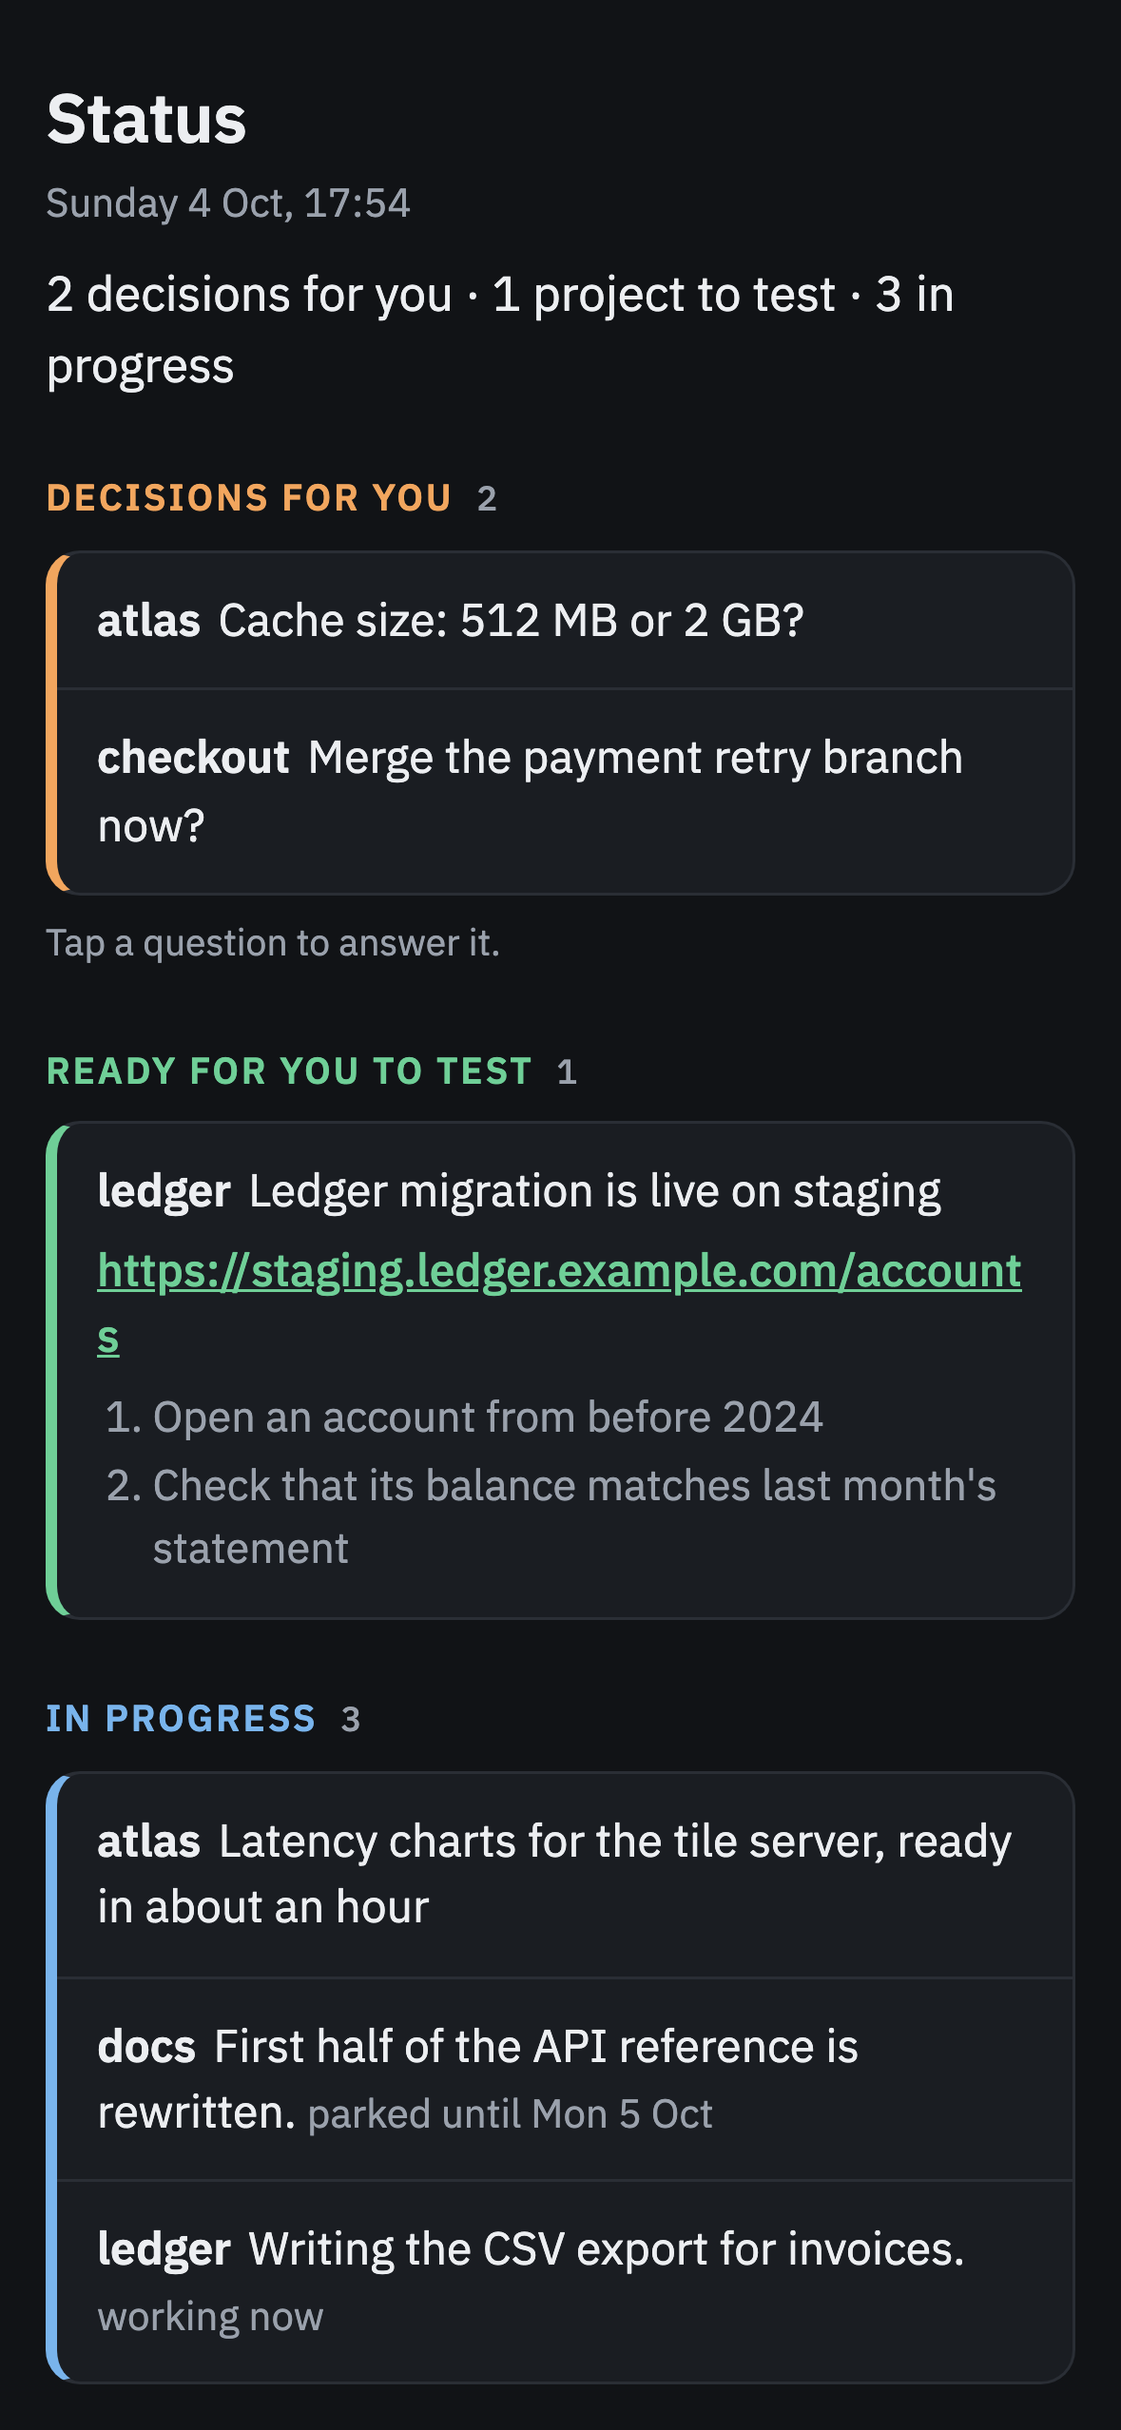
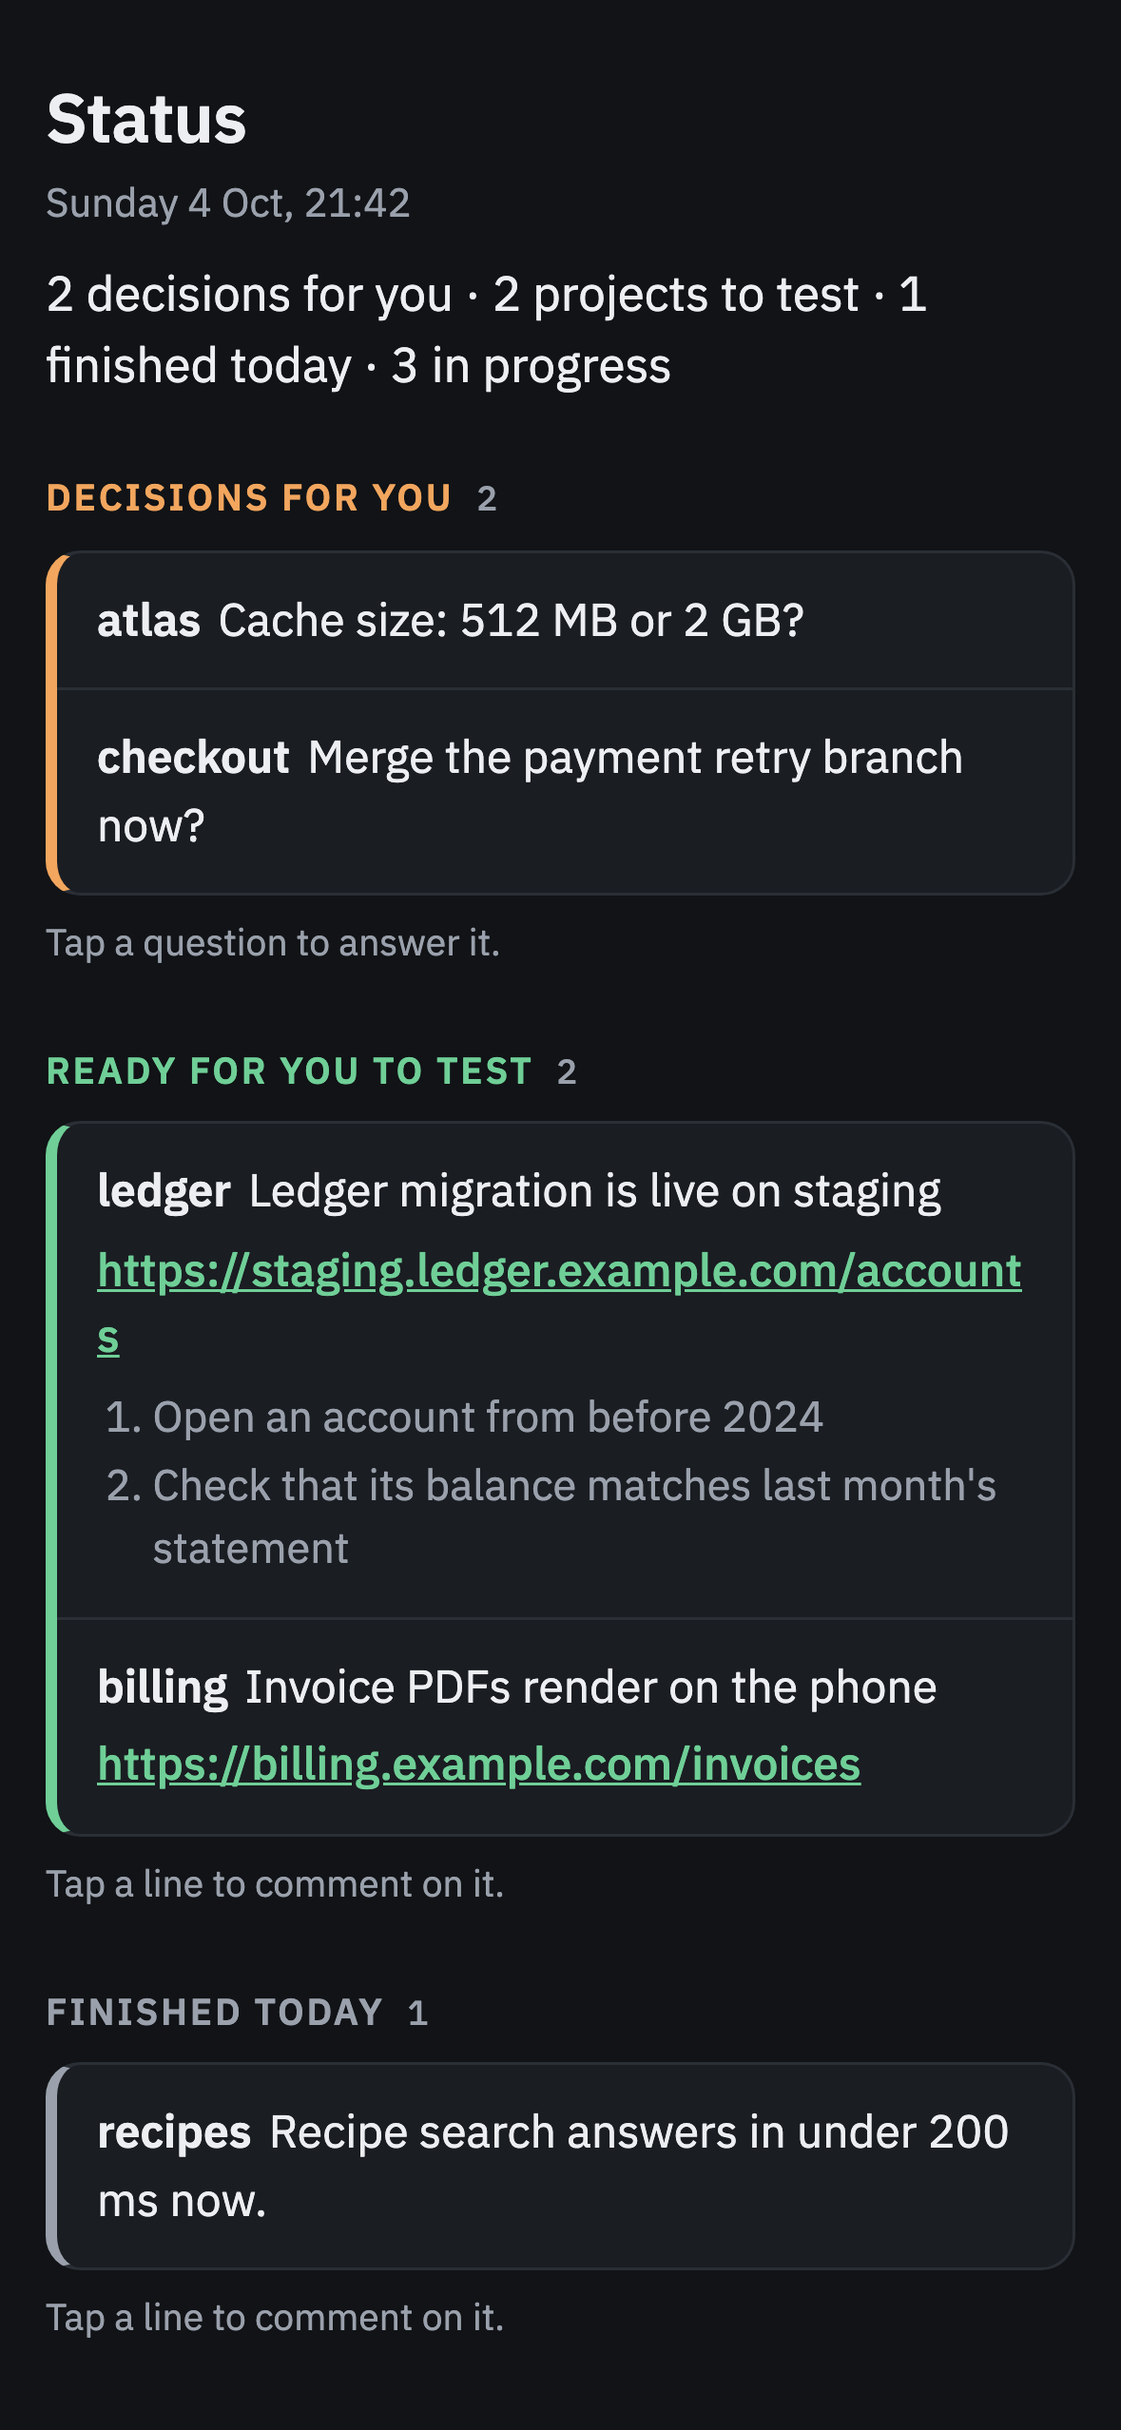
Board: every line opens the composer, addressed and quoted
A line to test, a finished line and a progress line now open the one-line
composer like the decisions and the machine room rows. The comment says
which session and quotes the line: `#6 sora, on "<line>": <text>`. A
shipped line whose session has ended is addressed `sora (session ended)`,
and the skill tells Head Jeeves to open a new session with that context.
make board-check taps every line on a phone layout and checks the message.

Claude-Session: https://claude.ai/code/session_018NCtbTAkNUxZmXtTfCcWmy

diff --git a/podbay/board.py b/podbay/board.py
@@ -6,8 +6,7 @@ It reads like a status page for the person who owns the work, grouped by
 project, never by session, and every line stands alone: no line refers to
 an earlier message, and a link is the full URL.
 
-- Decisions for you: only the real questions a session asks. Tapping one
-  opens the composer to answer it.
+- Decisions for you: only the real questions a session asks.
 - Ready for you to test: one line per project that shipped today, its full
   URL, and the steps to check it.
 - In progress: one line per project, with roughly when.
@@ -21,9 +20,12 @@ HEADLINES_PATH and the head-jeeves skill for the format). A session with no
 headline falls back to the first sentence of its recap, cleaned of
 markdown and never cut mid-word.
 
-Sending from the composer posts a comment on the artifact addressed
-`#6 sora: <text>` (the session name stands in when the terminal number is
-unknown) and sends it to the Claude session that published the page, Head
+Every line opens the composer when tapped: a decision, a line to test, a
+finished line, a progress line and a machine room row. Sending posts a
+comment on the artifact addressed to that line's session and quoting the
+line, `#6 sora, on "<line>": <text>` (the session name stands in when the
+terminal number is unknown; a shipped line whose session has ended says
+`sora (session ended)`), and sends it to the Claude session that published the page, Head
 Jeeves, who passes it on with `podbay send`. That path is the artifact
 `comments` capability (sendToClaude), so the page must be published with
 `capabilities: {comments: {}}`; without it the composer says so instead of
@@ -104,6 +106,8 @@ h2 .n { font: 500 12px var(--mono); color: var(--muted); letter-spacing: 0; }
 .prog { --c: var(--prog); }
 .done { --c: var(--muted); }
 ul.lines > li > div + div { margin-top: 8px; }
+ul.lines > li > div.tap { margin: -4px -6px; padding: 4px 6px; border-radius: 8px; }
+ul.lines > li > div.tap + div.tap { margin-top: 4px; }
 ul.lines { list-style: none; margin: 0; padding: 0; background: var(--card); border: 1px solid var(--line); border-left: 4px solid var(--c, var(--line)); border-radius: 12px; overflow: hidden; }
 ul.lines > li { padding: 12px 14px; border-top: 1px solid var(--line); }
 ul.lines > li:first-child { border-top: 0; }
@@ -158,6 +162,8 @@ _JS = """
     const input = form.querySelector("input");
     const status = item.querySelector(".status");
     const target = item.dataset.target;
+    const quote = item.dataset.quote;
+    const message = (text) => quote ? `${target}, on "${quote}": ${text}` : `${target}: ${text}`;
     const toggle = () => {
       const open = item.classList.toggle("open");
       if (open) {
@@ -175,7 +181,7 @@ _JS = """
       status.className = "status"; status.textContent = "Sending…";
       try {
         const anchor = await comments.anchorFor(item);
-        await comments.sendToClaude({ anchor, text: target + ": " + text });
+        await comments.sendToClaude({ anchor, text: message(text) });
         status.className = "status ok"; status.textContent = "Sent to Head Jeeves.";
         input.value = "";
       } catch (err) {
@@ -348,9 +354,24 @@ def _steps(steps: object) -> str:
     return f'<ol class="steps">{items}</ol>' if items else ""
 
 
+def _ended_target(repo: str) -> str:
+    """How the composer addresses a shipped line whose session has ended:
+    the repo, and that the session is gone, so Head Jeeves opens a new one."""
+    return f"{repo} (session ended)"
+
+
+def _tap(target: str, quote: str | None) -> str:
+    """The attributes that make an element open the composer: who the
+    message is for, and the line it quotes so Head Jeeves knows what it is
+    about."""
+    line = clean_line(quote, LINE_CHARS) if quote else ""
+    quoted = f' data-quote="{_esc(line)}"' if line else ""
+    return f'class="tap" data-target="{_esc(target)}"{quoted} tabindex="0"'
+
+
 def _decision_item(item: dict) -> str:
     return (
-        f'<li class="tap" data-target="{_esc(_target(item["session"]))}" tabindex="0">'
+        f'<li {_tap(item["target"], item["text"])}>'
         f'<span class="proj">{_esc(item["project"])}</span><span class="text">{_esc(item["text"])}</span>'
         f'{_link(item.get("link"))}{_composer()}</li>'
     )
@@ -361,8 +382,13 @@ def _project_item(project: str, items: list[dict]) -> str:
     for item in items:
         tag = f' <span class="when-tag">{_esc(item["when"])}</span>' if item.get("when") else ""
         line = f'<span class="text">{_esc(item["text"])}</span>{tag}{_link(item.get("link"))}{_steps(item.get("steps"))}'
-        parts.append(line if len(items) == 1 else f"<div>{line}</div>")
-    return f'<li><span class="proj">{_esc(project)}</span>{"".join(parts)}</li>'
+        parts.append(line + _composer("Comment on this line…"))
+    proj = f'<span class="proj">{_esc(project)}</span>'
+    if len(items) == 1:
+        # One line: the whole row is the tap target, the project inline.
+        return f'<li {_tap(items[0]["target"], items[0]["text"])}>{proj}{parts[0]}</li>'
+    divs = "".join(f'<div {_tap(item["target"], item["text"])}>{part}</div>' for item, part in zip(items, parts))
+    return f"<li>{proj}{divs}</li>"
 
 
 def _section(css: str, heading: str, body: str, count: int) -> str:
@@ -426,7 +452,7 @@ def _room_row(session: dict, now: datetime) -> str:
         pill = "never used"
     meta = " · ".join(x for x in (repo, pill, _age(session, now)) if x)
     return (
-        f'<li class="tap" data-target="{_esc(_target(session))}" tabindex="0"><div class="row">'
+        f'<li {_tap(_target(session), session.get("title") or session.get("name"))}><div class="row">'
         f'<span class="tab">{_esc(tab)}</span><span class="title">{_esc(session.get("title") or session.get("name"))}</span>'
         f'{_ctx(session)}</div><div class="meta">{_esc(meta)}</div>{_composer("Message for this session…")}</li>'
     )
@@ -457,7 +483,7 @@ def render(
         kind = _classify(s, headline, now)
         if kind is None:
             continue
-        item = {"session": s, "project": _project(s, headline), "link": None, "steps": None, "when": ""}
+        item = {"session": s, "target": _target(s), "project": _project(s, headline), "link": None, "steps": None, "when": ""}
         if headline and headline.get("text"):
             item.update(text=clean_line(headline["text"], 2 * LINE_CHARS), link=headline.get("link"), steps=headline.get("steps"))
         else:
@@ -475,7 +501,8 @@ def render(
         if key in live or headline.get("kind") != "shipped" or not headline.get("repo"):
             continue
         if _same_day(headline.get("at"), now):
-            found["shipped"].append({"session": {}, "project": str(headline["repo"]), "when": "",
+            found["shipped"].append({"session": {}, "target": _ended_target(str(headline["repo"])),
+                                     "project": str(headline["repo"]), "when": "",
                                      "text": clean_line(headline["text"], 2 * LINE_CHARS),
                                      "link": headline.get("link"), "steps": headline.get("steps")})
 
@@ -494,6 +521,7 @@ def render(
         if not groups and not empty:
             continue
         body = (f'<ul class="lines">\n{chr(10).join(_project_item(p, i) for p, i in groups)}\n</ul>'
+                '\n<p class="hint">Tap a line to comment on it.</p>'
                 if groups else f'<p class="none">{empty}</p>')
         sections.append(_section(css, heading, body, len(groups)))
 

diff --git a/scripts/board_check.py b/scripts/board_check.py
@@ -1,0 +1,76 @@
+"""Taps every line of the board on a phone and checks what reaches Head
+Jeeves: each line opens its own composer, and a sent message is addressed
+to that line's session and quotes the line. The board is the one the site
+screenshot shows (scripts/shots.py), made-up sessions only. The comments
+capability is stubbed, so nothing is sent anywhere.
+
+    make board-check
+"""
+
+from __future__ import annotations
+
+import asyncio
+import sys
+import tempfile
+from pathlib import Path
+
+sys.path.insert(0, str(Path(__file__).resolve().parent))
+
+import shots  # noqa: E402  (sets the demo environment before podbay loads)
+from playwright.async_api import async_playwright  # noqa: E402
+
+STUB = """
+window.__sent = [];
+window.claude = { use: async () => ({
+  anchorFor: async () => ({}),
+  sendToClaude: async ({ text }) => { window.__sent.push(text); },
+}) };
+"""
+
+
+async def main() -> int:
+    failures = []
+    with tempfile.TemporaryDirectory() as d:
+        page_path = Path(d) / "board.html"
+        page_path.write_text(shots.board_html())
+        async with async_playwright() as p:
+            browser = await p.chromium.launch()
+            phone = await browser.new_page(
+                viewport={"width": 393, "height": 852}, device_scale_factor=3, is_mobile=True, has_touch=True
+            )
+            await phone.add_init_script(STUB)
+            await phone.goto(page_path.as_uri())
+            await phone.click("details.room > summary")
+            taps = phone.locator(".tap[data-target]")
+            count = await taps.count()
+            sends = 0
+            for i in range(count):
+                tap = taps.nth(i)
+                target = await tap.get_attribute("data-target")
+                quote = await tap.get_attribute("data-quote")
+                section = await tap.evaluate("el => el.closest('section, details').querySelector('h2, summary').textContent")
+                await tap.locator(".text, .title").first.tap()
+                form = tap.locator("form.say")
+                if not await form.is_visible():
+                    failures.append(f"{target}: no composer after a tap")
+                    continue
+                await form.locator("input").fill("does this work")
+                await form.locator("input").press("Enter")
+                sends += 1
+                await phone.wait_for_function("n => window.__sent.length === n", arg=sends)
+                sent = await phone.evaluate("window.__sent[window.__sent.length - 1]")
+                expected = f'{target}, on "{quote}": does this work' if quote else f"{target}: does this work"
+                status = await tap.locator(".status").text_content()
+                if sent != expected or status != "Sent to Head Jeeves.":
+                    failures.append(f"{target}: sent {sent!r}, status {status!r}")
+                print(f"{section.split('·')[0].rstrip('0123456789 ')[:24]:<24} {sent}")
+                await tap.locator(".text, .title").first.tap()  # close it again
+            await browser.close()
+    for f in failures:
+        print("FAIL", f, file=sys.stderr)
+    print(f"{count} lines tapped, {len(failures)} failed")
+    return 1 if failures or count == 0 else 0
+
+
+if __name__ == "__main__":
+    sys.exit(asyncio.run(main()))

diff --git a/tests/test_board.py b/tests/test_board.py
@@ -54,7 +54,7 @@ def test_board_leads_with_outcomes_grouped_by_project():
     assert "podbay-fix-close" in room and "<b>claude</b> 5H 36%  7D 17%" in room and "never used" in room
     assert '<span class="ctx hot">ctx 73%</span>' in room and "Head Jeeves <span class=\"ctx\">ctx 7%</span>" in room
     assert "head-jeeves</span>" not in html and "#?" not in html
-    assert "sendToClaude" in html and 'target + ": " + text' in html
+    assert "sendToClaude" in html and '${target}, on "${quote}": ${text}' in html
 
 
 def test_head_jeeves_headlines_win_and_stale_questions_drop():
@@ -156,3 +156,36 @@ def test_a_card_age_never_contradicts_its_state():
     assert board._age(_session(state="shell_pane", age_seconds=10), NOW) == ""
     for state in ("working", "watching", "stalled"):
         assert "idle" not in board._age(_session(state=state, age_seconds=7200), NOW)
+
+
+def test_every_line_opens_the_composer_addressed_and_quoted():
+    payload = {"sessions": [
+        _session(session_id="s-sora", state="needs_you", last_text="Everything is committed."),
+        _session(session_id="s-done", name="e", tab="11", work_repo="keitos", repo="keitos", state="needs_you",
+                 age_seconds=600, last_text="Recipe search is faster."),
+        _session(session_id="s-prog", name="f", tab="12", work_repo="atlas", repo="atlas", state="working",
+                 last_text="Building the tile cache."),
+        _session(session_id="s-a1", name="g", tab="13", work_repo="ledger", repo="ledger", state="working", last_text="Export first."),
+        _session(session_id="s-a2", name="ledger-two", tab="", work_repo="ledger", repo="ledger", state="working", last_text="Import second."),
+    ]}
+    headlines = {
+        "s-sora": {"kind": "shipped", "text": "Six improvements live", "link": "vesahyp.github.io/sora"},
+        "gone": {"kind": "shipped", "text": "Stats board live", "repo": "podbay", "at": "2026-10-03T12:00"},
+    }
+    html = board.render(payload, NOW, headlines=headlines)
+    ready = html[html.index("Ready for you to test"):html.index("Finished today")]
+    assert 'data-target="#6 sora" data-quote="Six improvements live"' in ready
+    assert 'data-target="podbay (session ended)" data-quote="Stats board live"' in ready
+    done = html[html.index("Finished today"):html.index("In progress")]
+    assert 'data-target="#11 keitos" data-quote="Recipe search is faster."' in done
+    progress = html[html.index("In progress"):html.index("Machine room")]
+    assert 'data-target="#12 atlas" data-quote="Building the tile cache."' in progress
+    # two sessions in one project: each line is its own target, the tab-less one by name
+    assert 'data-target="#13 ledger" data-quote="Export first."' in progress
+    assert 'data-target="ledger-two ledger" data-quote="Import second."' in progress
+    assert progress.count('class="proj">ledger<') == 1
+    for section in (ready, done, progress):
+        assert section.count('<form class="say">') == section.count('class="tap"')
+        assert "Tap a line to comment on it." in section
+    room = html[html.index("Machine room"):]
+    assert 'data-target="#12 atlas" data-quote="' in room

diff --git a/scripts/shots.py b/scripts/shots.py
@@ -90,6 +90,8 @@ def demo_sessions() -> list[Session]:
         s(7, "ledger", "Ledger migration", account="personal", model="Opus 5.5", context_pct=52,
           idle=timedelta(minutes=38), seen_at=ago(hours=5),
           recap="The migration ran on staging. 3 rows need a manual fix."),
+        s(8, "recipes", "Recipe search", model="Sonnet 5.5", context_pct=33, idle=timedelta(minutes=25),
+          recap="Recipe search answers in under 200 ms now. Committed and pushed."),
     ]
 
 
@@ -112,6 +114,11 @@ HEADLINES = {
     },
     f"{2:08x}-demo-0000-0000-000000000000": {
         "kind": "progress", "text": "Latency charts for the tile server, ready in about an hour",
+    },
+    # Shipped earlier today by a session that has ended since.
+    "ended-demo": {
+        "kind": "shipped", "text": "Invoice PDFs render on the phone", "repo": "billing", "at": NOW.isoformat(),
+        "link": "https://billing.example.com/invoices",
     },
 }
 

diff --git a/skills/head-jeeves/SKILL.md b/skills/head-jeeves/SKILL.md
@@ -210,15 +210,28 @@ on the board and each reply you write must be complete in itself:
 
 ### Messages from the board
 
-Tapping a question or a machine room row opens a one-line composer; what
-the user types reaches you as a comment on the artifact addressed `#6 sora:
-<text>`, the terminal number and repo of that session, or its name and repo
-(`jeeves-64 sora: <text>`) when the terminal number is unknown. Treat it as
-an order for that session: `podbay send '#6' "<text>"` (the first word
-alone resolves the session), then reply in the thread with the
-ArtifactComments tool in one line: what you passed on, or why you could
-not. If the text is a question for you rather than an order ("how is this
-going?"), answer it in the thread. Then refresh the board.
+Every line on the board opens a one-line composer when tapped: a
+decision, a line to test, a finished line, a progress line and a machine
+room row. What the user types reaches you as a comment on the artifact,
+addressed to that line's session and quoting the line:
+`#6 sora, on "Six improvements live": the lap counter is wrong`. The
+address is the terminal number and repo, or the name and repo
+(`jeeves-64 sora, on "..."`) when the terminal number is unknown. The
+quote says what the comment is about, so the user does not type the
+context.
+
+- A live session: treat the text as an order or a remark for it and pass
+  it on with the quote, `podbay send '#6' 'About "Six improvements live":
+  the lap counter is wrong'` (the first word alone resolves the session).
+- `sora (session ended), on "...": <text>`: the line is a shipped item
+  whose session is gone. Open a new session in that repo with `podbay
+  open`, and make its first prompt the quoted line, the link and steps from
+  your headline for it, and the user's text, so it starts with the context.
+- A question for you rather than for the session ("how is this going?"):
+  answer it in the thread.
+
+Then reply in the thread with the ArtifactComments tool in one line: what
+you passed on or started, or why you could not. Then refresh the board.
 
 ## Pushing to the phone
 
